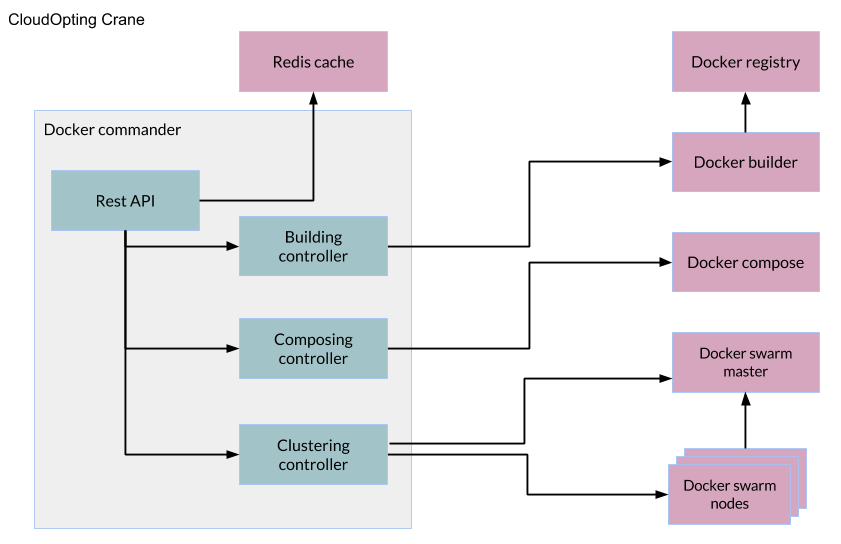
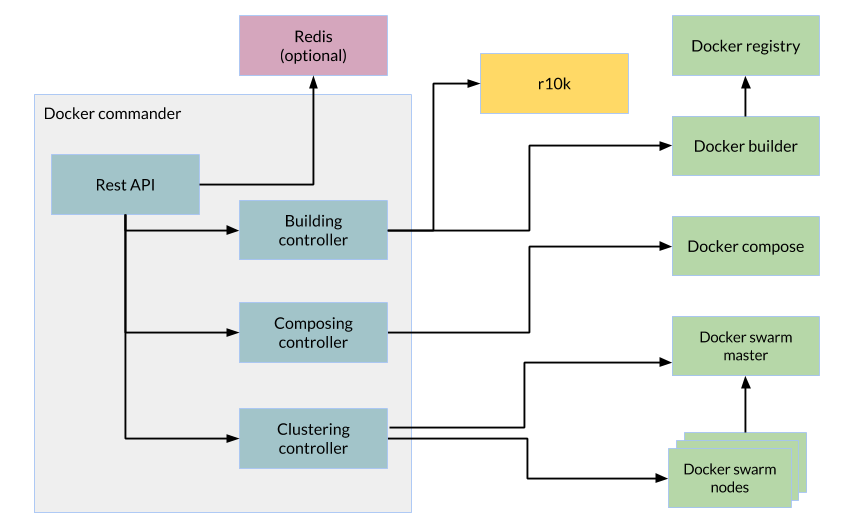
Updated diagram and description

Changed region(s): [[0.0309, 0.0301, 0.9893, 0.9642], [0.0309, 0.9642, 0.4946, 0.9944], [0.0, 0.0, 0.1855, 0.0603]]

diff --git a/README.md b/README.md
@@ -1,25 +1,29 @@
 # cloudopting-crane
-The module that deals with docker operations: containers building, swarm clustering and compose orchestration.
+
+This module provides a REST API that makes easy to build services with [Puppet](https://puppetlabs.com/) and [Docker](https://www.docker.com/).
+
+It takes as input some files like puppetfiles, puppet manifests, dockerfiles and docker-compose files and builds a container infraestructure which can be deployed in remote machines (also using the API).
+
+It uses several docker components: host, builder, registry, [swarm](https://github.com/docker/swarm) and [compose](https://github.com/docker/compose). Also puppet tools like the puppet agent itself and [r10k](https://github.com/puppetlabs/r10k).
 
 ![Module diagram](/readmeResources/diagram.png)
 
-[Description under construction]
+
 
 ## On the desk
 
 __Done__
 - Dockerized environment for development
-- API skell and definition (live swagger ui client)
+- Build puppet contexts from puppetfile
+- Build containers from Dockerfile + puppet manifest
+- Start services from docker-compose.yml
 - Flexible data storage support (local-dict/filesystem/redis)
 
 __Working on__
-- Build puppet contexts from puppetfile
-- Build containers from Dockerfile
-- Build containers from Dockerfile + puppet manifest
 - Docker registry support (push and pull)
 - Start services from docker-compose.yml (importing modules from docker-compose application)
-- Configuration files
-
+- Deploy on remote host support
+- Swarm support
 
 ## Roadmap
 
